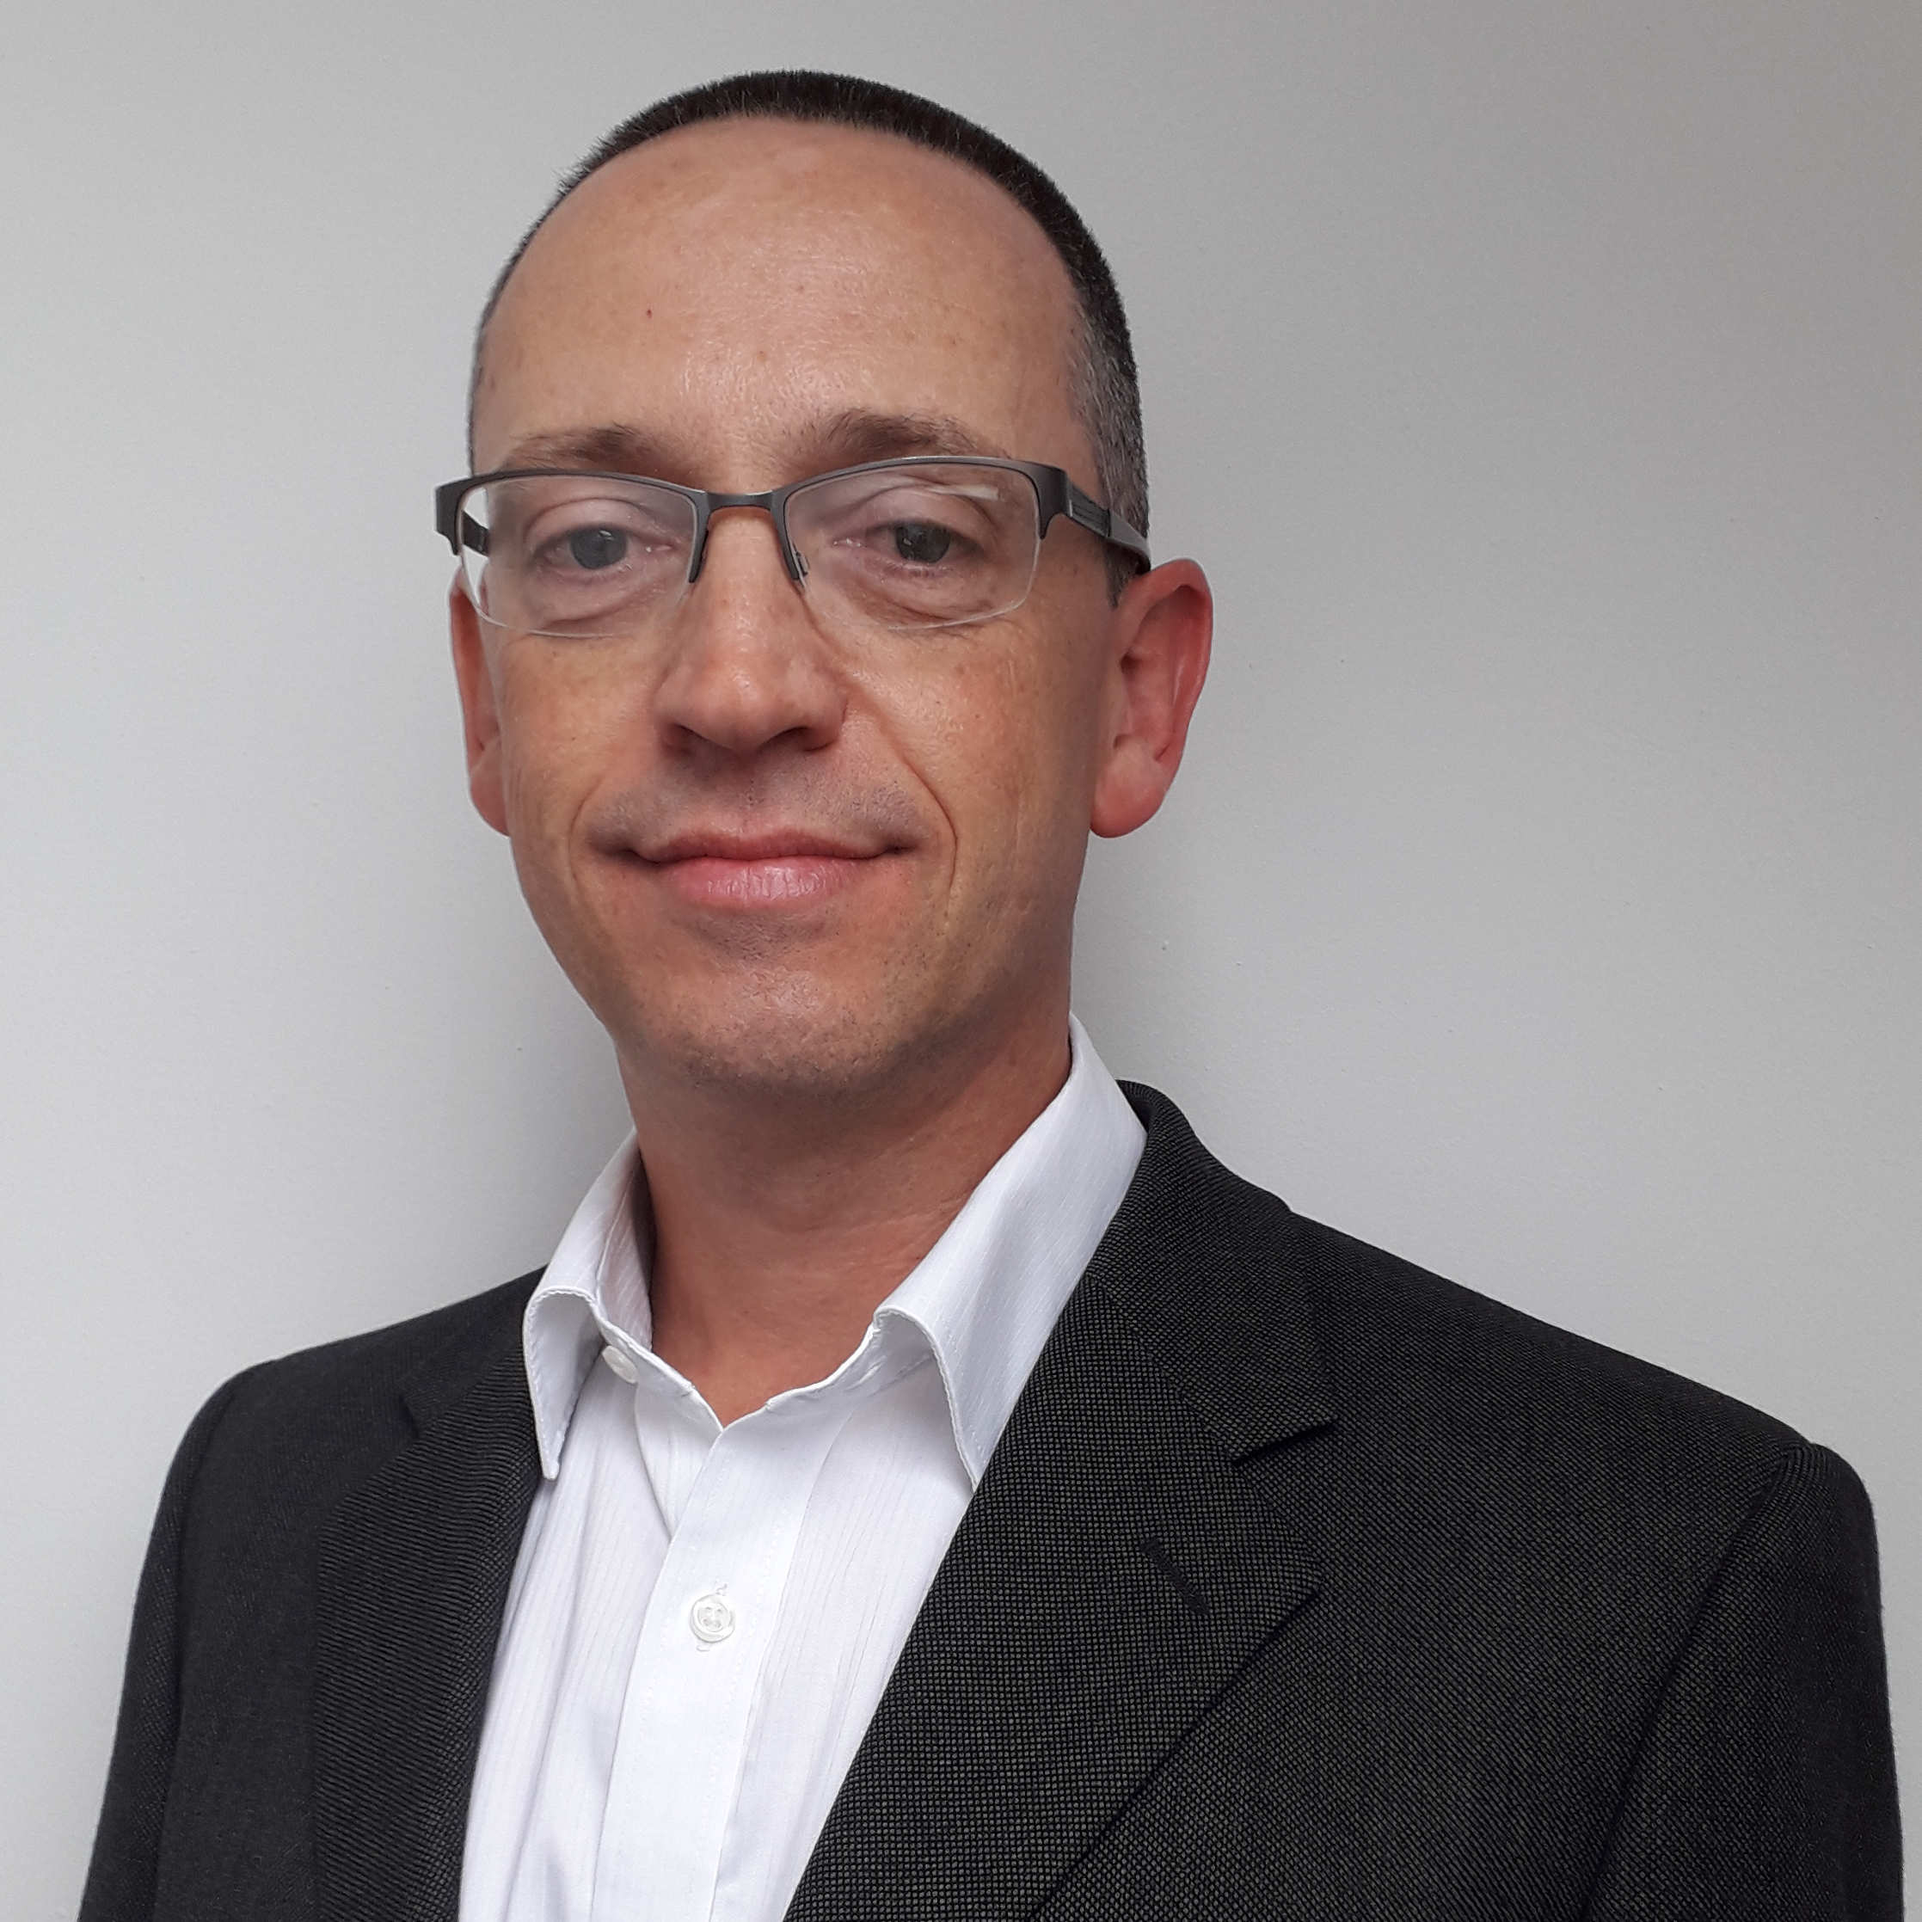
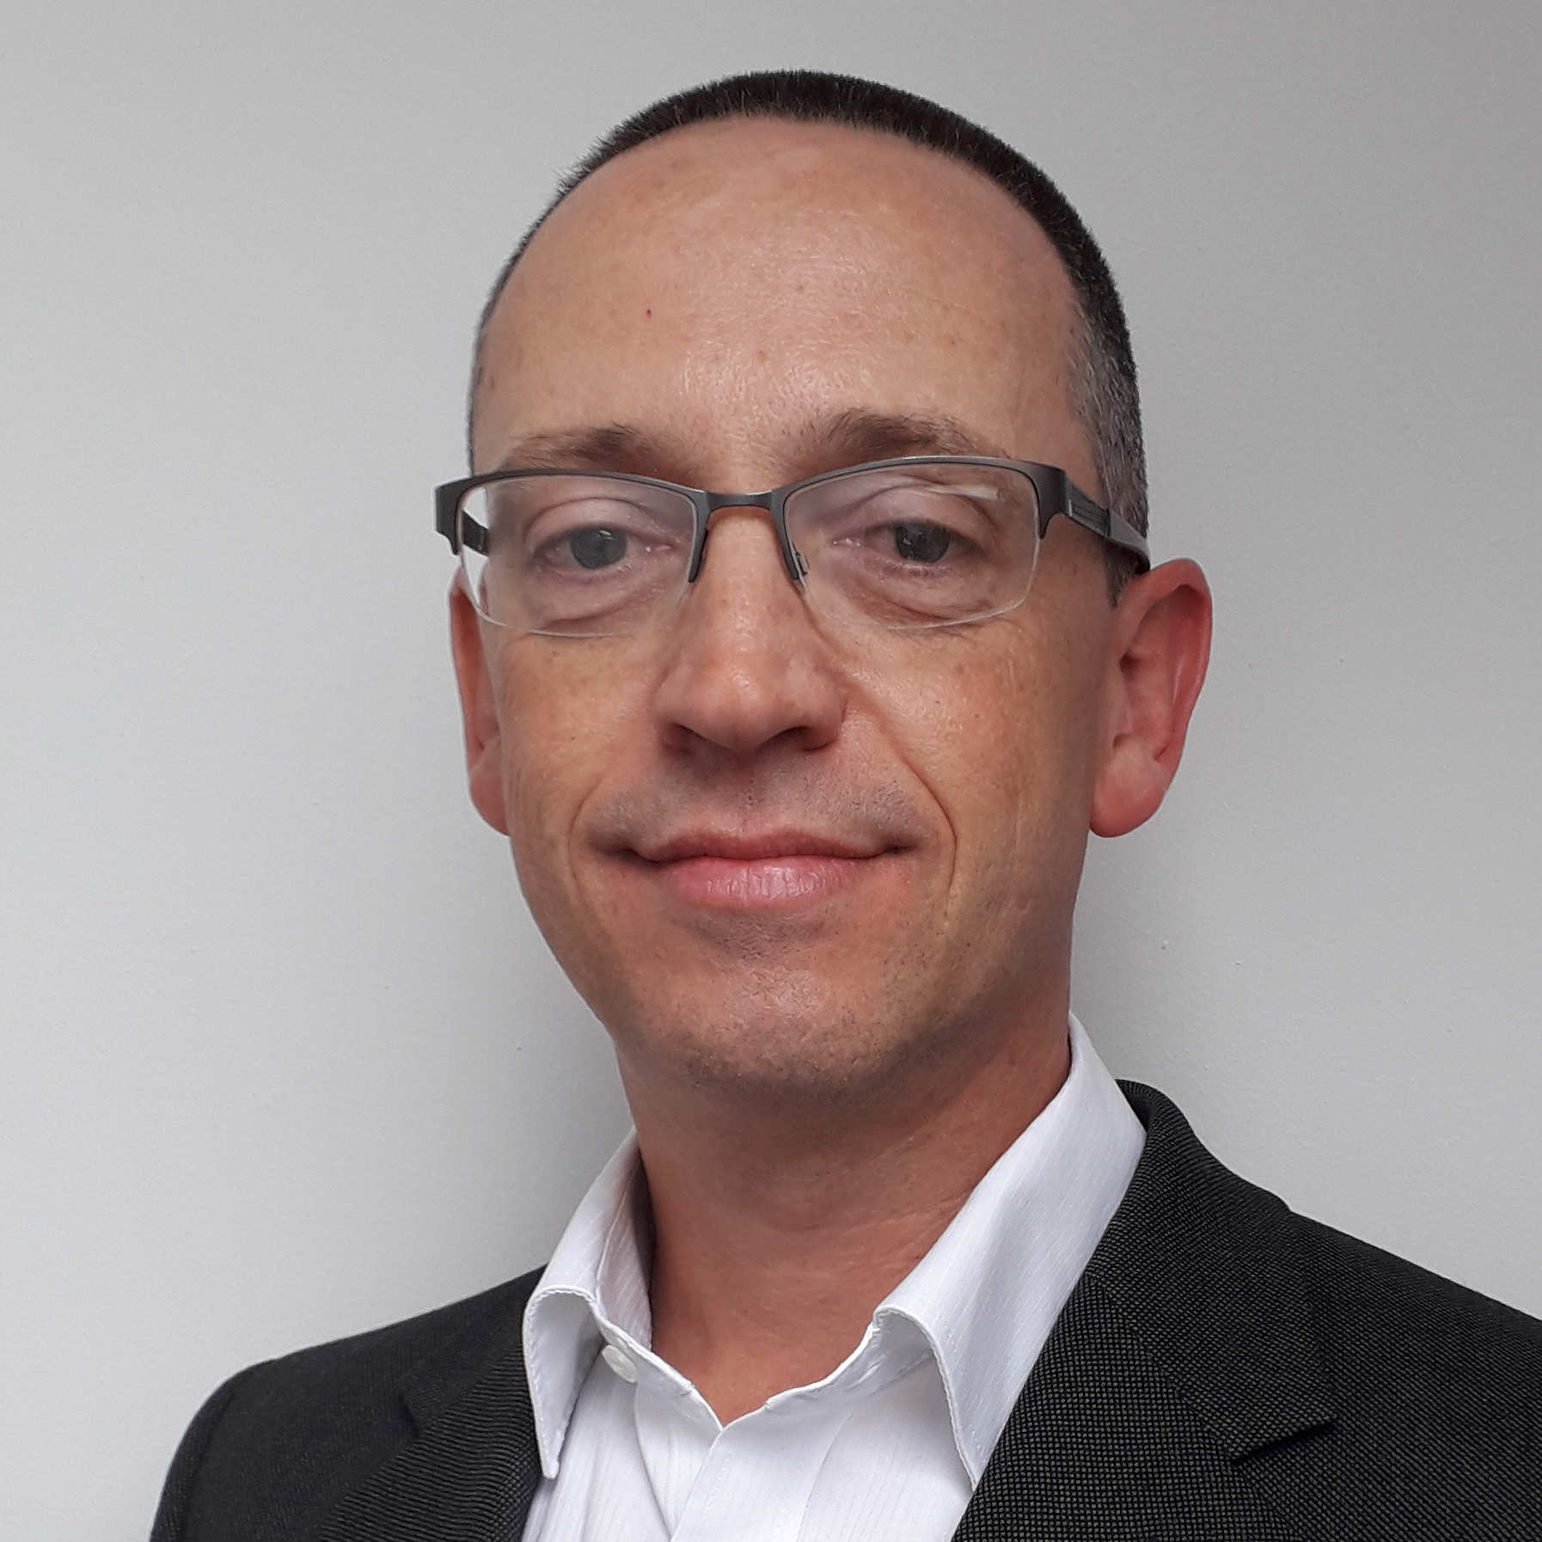
s

diff --git a/_layouts/team.html b/_layouts/team.html
@@ -12,7 +12,7 @@ layout: default
                     page.title
                     }}"
                     class="intro-image" style="width:100%; height:auto"
-                    src="{{ site.url }}/{{ page.image }}"
+                    src="{{ site.url }}/{{ page.image_hires }}"
                 />
             </div>
             {% endif %}
